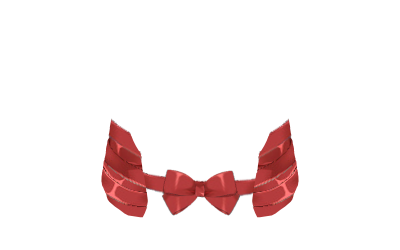
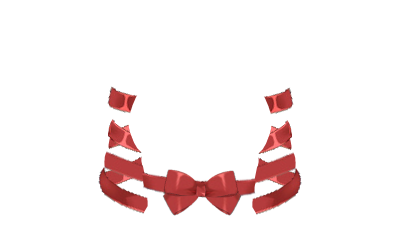
couldnt help me self

diff --git a/BondageClub/Assets/Female3DCG/Female3DCG.js b/BondageClub/Assets/Female3DCG/Female3DCG.js
@@ -2468,7 +2468,7 @@ var AssetFemale3DCG = [
 			},
 			{ Name: "PlasticWrap", Value: 100, Difficulty: 7, SelfBondage: 3, Time: 30, RemoveTime: 25, BuyGroup: "PlasticWrap", SetPose: ["BackElbowTouch"], Block:["ItemBreast","ItemNipples", "ItemNipplesPiercings", "ItemTorso"], Hide: ["Cloth", "ClothAccessory"], Effect: ["Block", "Prone"]},
 			{ Name: "WrappedBlanket", Extended: true, Value: -1, Difficulty: 15, SelfBondage: 3, Time: 40, RemoveTime: 30, Random: false, BuyGroup: "Bed", Prerequisite: ["NotSuspended", "NotHogtied", "NotKneelingSpread", "NoFeetSpreader"], Hide: ["Shoes", "Socks", "Cloth", "ClothLower", "Bra", "ItemNipplesPiercings", "ItemLegs"], HideItem: ["ItemFeetOrnateAnkleCuffs", "ItemFeetNylonRope", "ItemFeetHempRope", "ItemFeetLeatherBelt", "ItemFeetIrish8Cuffs", "ItemFeetDuctTape", "ItemFeetLeatherAnkleCuffs", "ItemNipplesLactationPump"], AllowPose: ["Kneel"], SetPose: ["BackElbowTouch", "LegsClosed"], Effect: ["Block", "Prone"], Block: ["ItemPelvis", "ItemTorso", "ItemBreast", "ItemHands", "ItemFeet", "ItemNipples", "ItemNipplesPiercings", "ItemVulva", "ItemVulvaPiercings", "ItemLegs", "ItemButt"], AllowType: ["ShouldersWrapped", "FeetWrapped", "FullWrapped"] },
-			{ Name: "Ribbons", Fetish: ["Lingerie"], Value: 30, Difficulty: 10, SelfBondage: 2, Time: 20, RemoveTime: 20, BuyGroup: "Ribbon", Hide: ["Cloth"], SetPose: ["BackBoxTie"] },
+			{ Name: "Ribbons", Fetish: ["Lingerie"], Value: 30, Difficulty: 5, SelfBondage: 2, Time: 20, RemoveTime: 20, BuyGroup: "Ribbon", Hide: ["Cloth"], AllowType: ["Heavy"], SetPose: ["BackBoxTie"], Extended: true },
 			AssetSpankingToys
 		],
 		Color: ["Default", "#202020", "#808080", "#bbbbbb", "#aa8080", "#80aa80", "#8080aa", "#aaaa80", "#80aaaa", "#aa80aa", "#cc3333", "#33cc33", "#3333cc", "#cccc33", "#33cccc", "#cc33cc"],

diff --git a/BondageClub/Screens/Inventory/ItemArms/Ribbons/Ribbons.js b/BondageClub/Screens/Inventory/ItemArms/Ribbons/Ribbons.js
@@ -1,0 +1,39 @@
+"use strict";
+
+var InventoryItemArmsRibbonsOptions = [
+	{
+		Name: "Cross",
+		Property: { Type: null, Difficulty: 5 },
+	}, {
+		Name: "Heavy",
+		SelfBondageLevel: 4,
+		Property: { Type: "Heavy", Difficulty: 6 }
+	},
+];
+
+// Loads the item extension properties
+function InventoryItemArmsRibbonsLoad() {
+	ExtendedItemLoad(InventoryItemArmsRibbonsOptions, "SelectRibbonType");
+}
+
+// Draw the item extension screen
+function InventoryItemArmsRibbonsDraw() {
+	ExtendedItemDraw(InventoryItemArmsRibbonsOptions, "RibbonsArms");
+}
+
+function InventoryItemArmsRibbonsClick() {
+	ExtendedItemClick(InventoryItemArmsRibbonsOptions);
+}
+
+function InventoryItemArmsRibbonsPublishAction(C, Option) {
+	var msg = "ArmsRibbonsSet" + Option.Name;
+	var Dictionary = [
+		{ Tag: "SourceCharacter", Text: Player.Name, MemberNumber: Player.MemberNumber },
+		{ Tag: "DestinationCharacter", Text: C.Name, MemberNumber: C.MemberNumber },
+	];
+	ChatRoomPublishCustomAction(msg, true, Dictionary);
+}
+
+function InventoryItemArmsRibbonsNpcDialog(C, Option) {
+	C.CurrentDialog = DialogFind(C, "ItemArmsRibbons" + Option.Name, "ItemArms");
+}

diff --git a/BondageClub/index.html b/BondageClub/index.html
@@ -331,6 +331,7 @@
 <script src="Screens/Inventory/ItemPelvis/Ribbons/Ribbons.js"></script>
 <script src="Screens/Inventory/ItemLegs/Ribbons/Ribbons.js"></script>
 <script src="Screens/Inventory/ItemHead/Ribbons/Ribbons.js"></script>
+<script src="Screens/Inventory/ItemArms/Ribbons/Ribbons.js"></script>
 <script src="Screens/Inventory/Bra/Ribbons/Ribbons.js"></script>
 <script>
 
